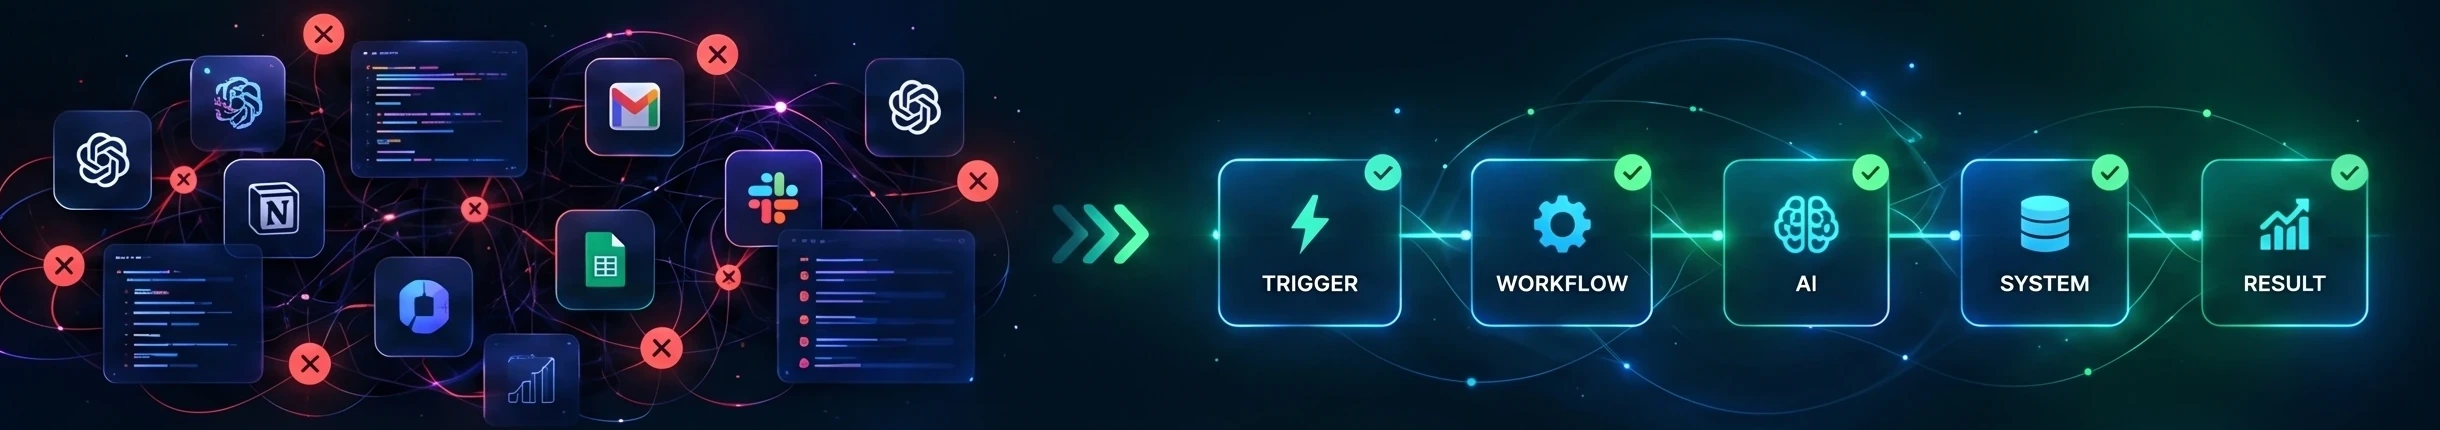
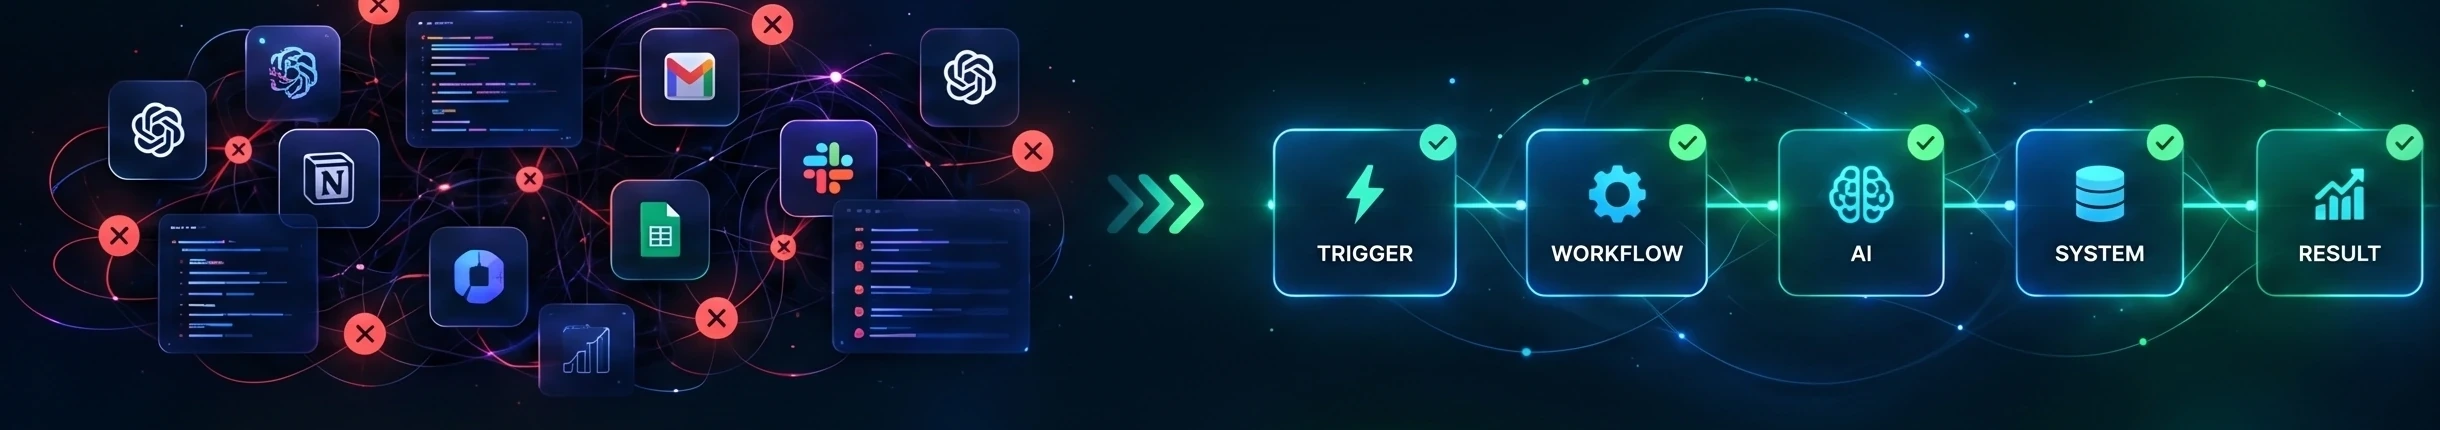
fix(webinar): replace not ai tools bg without gemini watermark and add footer clearance above sticky bar

diff --git a/src/app/ai-business-automation-webinar/page.tsx b/src/app/ai-business-automation-webinar/page.tsx
@@ -3383,59 +3383,47 @@ export default function WebinarPage() {
       )}
 
       {/* ── DEDICATED COMPLIANCE FOOTER ───────────────────────────────────── */}
-      <footer
-        style={{
-          borderTop: "1px solid var(--wb-divider)",
-          background: "var(--wb-footer-bg)",
-          backdropFilter: "blur(20px)",
-          padding: "48px 24px",
-          textAlign: "center",
-          fontSize: "13px",
-          color: "var(--wb-text-faint)",
-          position: "relative",
-          zIndex: 3,
-        }}
-      >
+      <footer className="wb-footer-section">
         <div className="wb-container">
           <div style={{ marginBottom: "18px", display: "flex", justifyContent: "center" }}>
-            <div style={{ position: "relative", width: "140px", height: "26px" }}>
+            <div style={{ position: "relative", width: "160px", height: "28px" }}>
               <Image
                 src="/scalepods-navbar-logo.png"
                 alt="ScalePods"
                 fill
-                sizes="140px"
-                style={{ objectFit: "contain", filter: "invert(1)", opacity: 0.85 }}
+                sizes="160px"
+                style={{ objectFit: "contain", filter: "invert(1)", opacity: 1 }}
               />
             </div>
           </div>
 
-          <p style={{ maxWidth: "620px", margin: "0 auto 18px", color: "var(--wb-text-muted)", fontSize: "14px" }}>
+          <p style={{ maxWidth: "620px", margin: "0 auto 18px", color: "var(--wb-text-muted)", fontSize: "14px", lineHeight: 1.6 }}>
             ScalePods architects autonomous AI workflow automation ecosystems across enterprise sales, marketing, HR and operational systems.
           </p>
 
           <div style={{ display: "flex", flexWrap: "wrap", justifyContent: "center", gap: "22px", marginBottom: "20px" }}>
-            <Link href="/privacy" style={{ color: "var(--wb-text-mid)", textDecoration: "none" }}>
+            <Link href="/privacy" className="wb-footer-link">
               Privacy Policy
             </Link>
-            <Link href="/terms" style={{ color: "var(--wb-text-mid)", textDecoration: "none" }}>
+            <Link href="/terms" className="wb-footer-link">
               Terms of Service
             </Link>
             <a
               href="#refund-policy"
+              className="wb-footer-link"
               onClick={(e) => {
                 e.preventDefault();
                 alert("Cancellation & Refund Policy:\n\n1. Registrations for the ScalePods ₹99 Live AI Business Automation Masterclass are non-refundable once confirmation access is issued.\n2. In the event of session rescheduling, your registration remains 100% valid for the rescheduled date.\n3. For any queries, write to info@scalepods.co.");
               }}
-              style={{ color: "var(--wb-text-mid)", textDecoration: "none" }}
             >
               Cancellation &amp; Refund Policy
             </a>
-            <a href="mailto:info@scalepods.co" style={{ color: "var(--wb-text-mid)", textDecoration: "none" }}>
+            <a href="mailto:info@scalepods.co" className="wb-footer-link">
               Contact: info@scalepods.co
             </a>
           </div>
 
-          <p style={{ fontSize: "12px", color: "var(--wb-text-faint)" }}>
+          <p style={{ fontSize: "12px", color: "var(--wb-text-faint)", margin: 0 }}>
             © {new Date().getFullYear()} ScalePods Inc. All rights reserved. Razorpay is a trademark of Razorpay Software Private Limited.
           </p>
         </div>

diff --git a/src/app/ai-business-automation-webinar/webinar.css b/src/app/ai-business-automation-webinar/webinar.css
@@ -564,6 +564,37 @@
   gap: 18px;
 }
 
+/* Compliance Footer */
+.wb-footer-section {
+  border-top: 1px solid var(--wb-divider);
+  background: var(--wb-footer-bg);
+  backdrop-filter: blur(20px);
+  -webkit-backdrop-filter: blur(20px);
+  padding: 56px 24px calc(115px + env(safe-area-inset-bottom, 24px));
+  text-align: center;
+  font-size: 13px;
+  color: var(--wb-text-faint);
+  position: relative;
+  z-index: 3;
+}
+
+.wb-footer-link {
+  color: var(--wb-text-mid);
+  text-decoration: none;
+  font-size: 13px;
+  transition: color 0.2s ease;
+}
+
+.wb-footer-link:hover {
+  color: var(--wb-green);
+}
+
+@media (max-width: 768px) {
+  .wb-footer-section {
+    padding: 48px 20px calc(150px + env(safe-area-inset-bottom, 24px)) !important;
+  }
+}
+
 /* Modal */
 .wb-modal-overlay {
   position: fixed;
